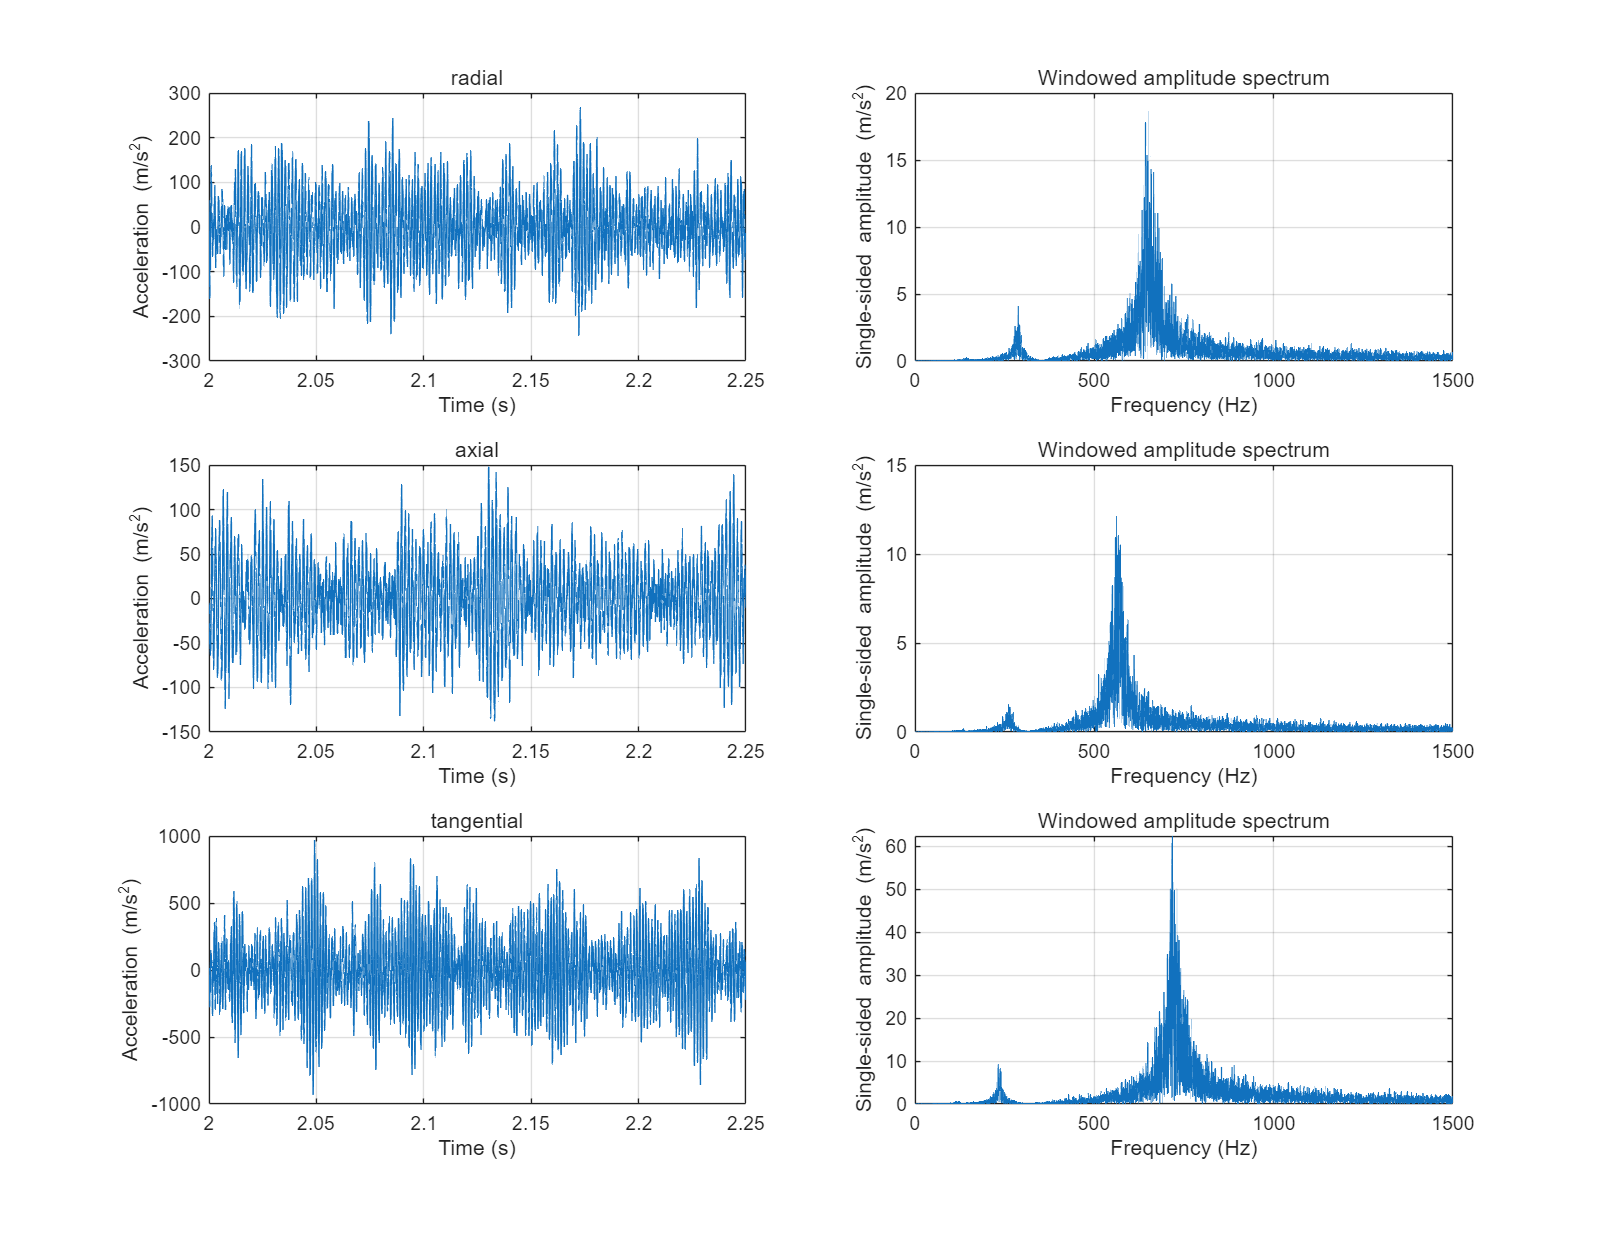
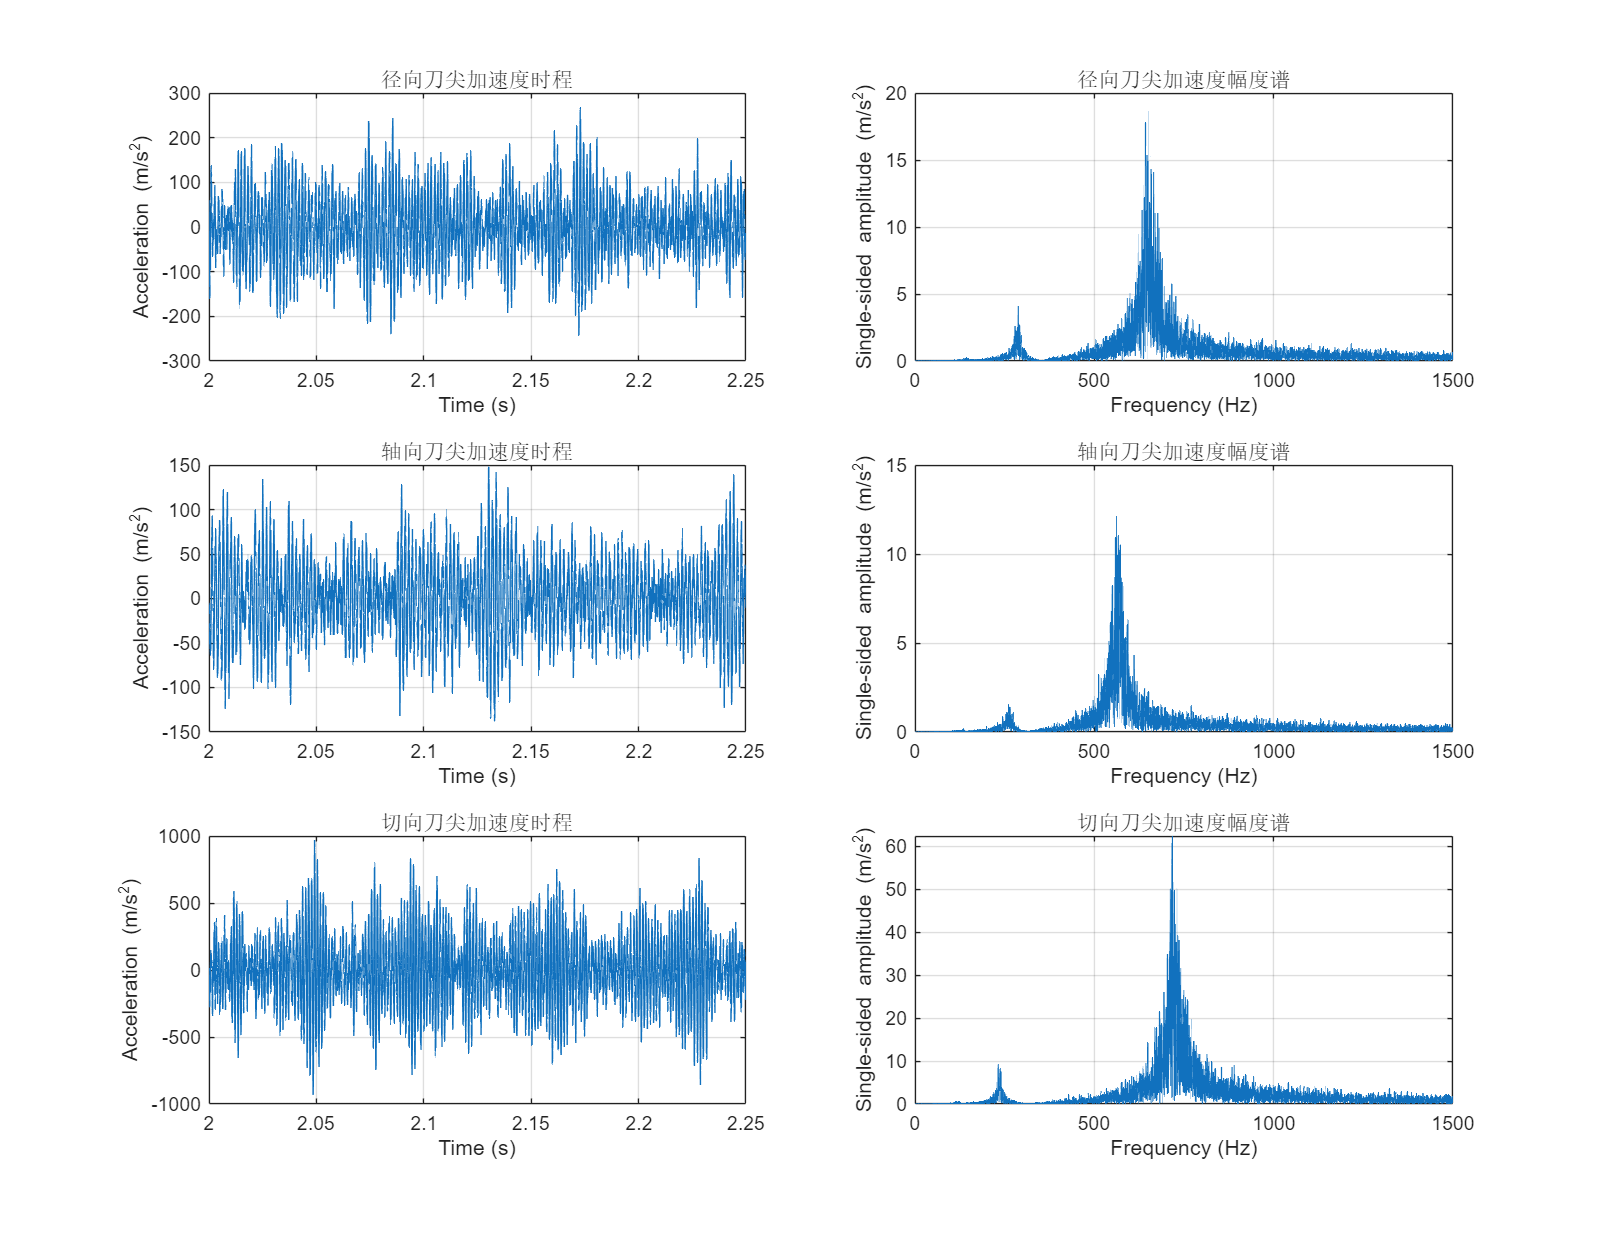
Use Chinese Songti titles in MATLAB result plots

diff --git a/wheel_lathe_lumped_demo.m b/wheel_lathe_lumped_demo.m
@@ -161,64 +161,68 @@ writetable(table((1:nd)',fn,'VariableNames',{'mode','frequency_Hz'}), ...
     fullfile(outdir,'natural_frequencies.csv'));
 
 short = t >= p.discard & t <= p.discard+0.25;
-fig = figure('Name','Tool tip acceleration','NumberTitle','off', ...
+directionTitles = {'径向','轴向','切向'};
+titleStyle = {'FontName','宋体','FontWeight','normal'};
+fig = figure('Name','刀尖加速度','NumberTitle','off', ...
     'Visible','off','Color','w','Position',[50 50 1100 850]);
 for j = 1:3
     subplot(3,2,2*j-1);
     plot(t(short),tipA(j,short),'LineWidth',0.7); grid on;
-    xlabel('Time (s)'); ylabel('Acceleration (m/s^2)'); title(axesNames{j});
+    xlabel('Time (s)'); ylabel('Acceleration (m/s^2)');
+    title([directionTitles{j} '刀尖加速度时程'],titleStyle{:});
     subplot(3,2,2*j);
     plot(freqFFT,ampFFT(j,:),'LineWidth',0.7); grid on;
     xlim([0 p.plotMaxHz]); xlabel('Frequency (Hz)');
-    ylabel('Single-sided amplitude (m/s^2)'); title('Windowed amplitude spectrum');
+    ylabel('Single-sided amplitude (m/s^2)');
+    title([directionTitles{j} '刀尖加速度幅度谱'],titleStyle{:});
 end
 save_result_figure(fig,outdir,'acceleration.png',p.showFigures);
 
-fig = figure('Name','Unit-force accelerance','NumberTitle','off', ...
+fig = figure('Name','单位力加速度频响','NumberTitle','off', ...
     'Visible','off','Color','w','Position',[50 50 950 650]);
 for j = 1:3
     subplot(3,1,j);
     semilogy(freq,max(squeeze(abs(Htip(j,j,:))),1e-16)); grid on;
     xlabel('Frequency (Hz)'); ylabel('(m/s^2)/N');
-    title([axesNames{j} ' unit-force accelerance']);
+    title([directionTitles{j} '单位力加速度频响'],titleStyle{:});
 end
 save_result_figure(fig,outdir,'unit_force_frf.png',p.showFigures);
 
 % A longer time window exposes the low-frequency cutting-force modulation.
 forceWindow = t >= p.discard & t <= p.discard+2;
-fig = figure('Name','Cutting force','NumberTitle','off', ...
+fig = figure('Name','三向切削力','NumberTitle','off', ...
     'Visible','off','Color','w','Position',[50 50 950 650]);
 for j = 1:3
     subplot(3,1,j);
     plot(t(forceWindow),force(j,forceWindow),'LineWidth',0.7); grid on;
     xlabel('Time (s)'); ylabel('Force (N)');
-    title([axesNames{j} ' cutting force on tool']);
+    title([directionTitles{j} '切削力时程'],titleStyle{:});
 end
 save_result_figure(fig,outdir,'cutting_force.png',p.showFigures);
 
-fig = figure('Name','Tool and wheelset response','NumberTitle','off', ...
+fig = figure('Name','刀具与轮对响应','NumberTitle','off', ...
     'Visible','off','Color','w','Position',[50 50 1100 850]);
 for j = 1:3
     subplot(3,2,2*j-1);
     plot(t(short),tipA(j,short),t(short),holderA(j,short),'LineWidth',0.7); grid on;
     xlabel('Time (s)'); ylabel('Acceleration (m/s^2)');
-    title([axesNames{j} ' acceleration']);
+    title([directionTitles{j} '刀尖与刀杆加速度对比'],titleStyle{:});
     if j == 1
         legend('Tool tip','Tool holder','Location','best');
     end
     subplot(3,2,2*j);
     plot(t(short),1e6*relativeU(j,short),'LineWidth',0.7); grid on;
     xlabel('Time (s)'); ylabel('Relative displacement ({\mu}m)');
-    title([axesNames{j} ' displacement: tip minus wheelset']);
+    title([directionTitles{j} '刀尖相对轮对的位移'],titleStyle{:});
 end
 save_result_figure(fig,outdir,'tool_response.png',p.showFigures);
 
-fig = figure('Name','Undamped natural frequencies','NumberTitle','off', ...
+fig = figure('Name','未阻尼固有频率','NumberTitle','off', ...
     'Visible','off','Color','w','Position',[50 50 950 500]);
 stem(1:nd,fn,'filled'); grid on;
 xlim([0.5 nd+0.5]); xticks(1:nd);
 xlabel('Mode index'); ylabel('Natural frequency (Hz)');
-title('Undamped natural frequencies');
+title('未阻尼固有频率',titleStyle{:});
 save_result_figure(fig,outdir,'natural_frequencies.png',p.showFigures);
 fprintf('Saved illustrative results to: %s\n',outdir);
 end
